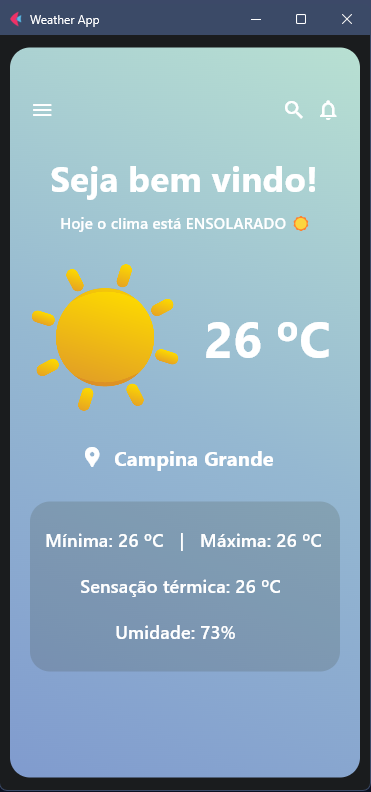
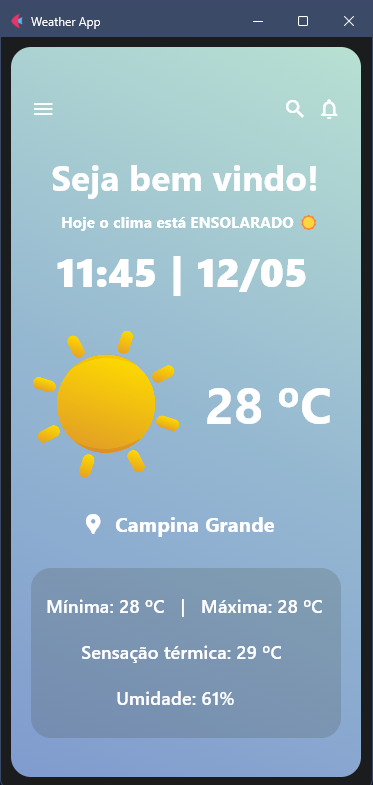
time and date added

diff --git a/main.py b/main.py
@@ -1,4 +1,5 @@
 import flet as ft
+from datetime import datetime
 import requests
 
 api_key = "0c33e0a7fefd189dc02f05997704299f"
@@ -14,7 +15,11 @@ minCelsius = (weather_data.json()["main"]["temp_min"] - 32) / 1.8
 maxCelsius = (weather_data.json()["main"]["temp_max"] - 32) / 1.8
 humidity = weather_data.json()["main"]["humidity"]
 
-print(weather_data.json())
+current_date_time = datetime.now()
+current_date = current_date_time.strftime("%d/%m")
+current_time = current_date_time.strftime("%H:%M")
+
+#print(weather_data.json())
 
 def main(page: ft.Page):
 
@@ -65,9 +70,18 @@ def main(page: ft.Page):
                     content=ft.Text(
                         value=f"Hoje o clima está {'ENSOLARADO'} ☀",
                         color="white",
-                        weight=ft.FontWeight.W_600,
+                        weight=ft.FontWeight.W_700,
                         size=15,
                     ),
+                ),
+                ft.Container(
+                    padding=ft.padding.only(left=25),
+                    content=ft.Text(
+                        value=f"{current_time} | {current_date}",
+                        weight=ft.FontWeight.W_800,
+                        size=40,
+                        color="white",
+                    )
                 ),
                 ft.Container(
                     padding=ft.padding.only(top=20),
